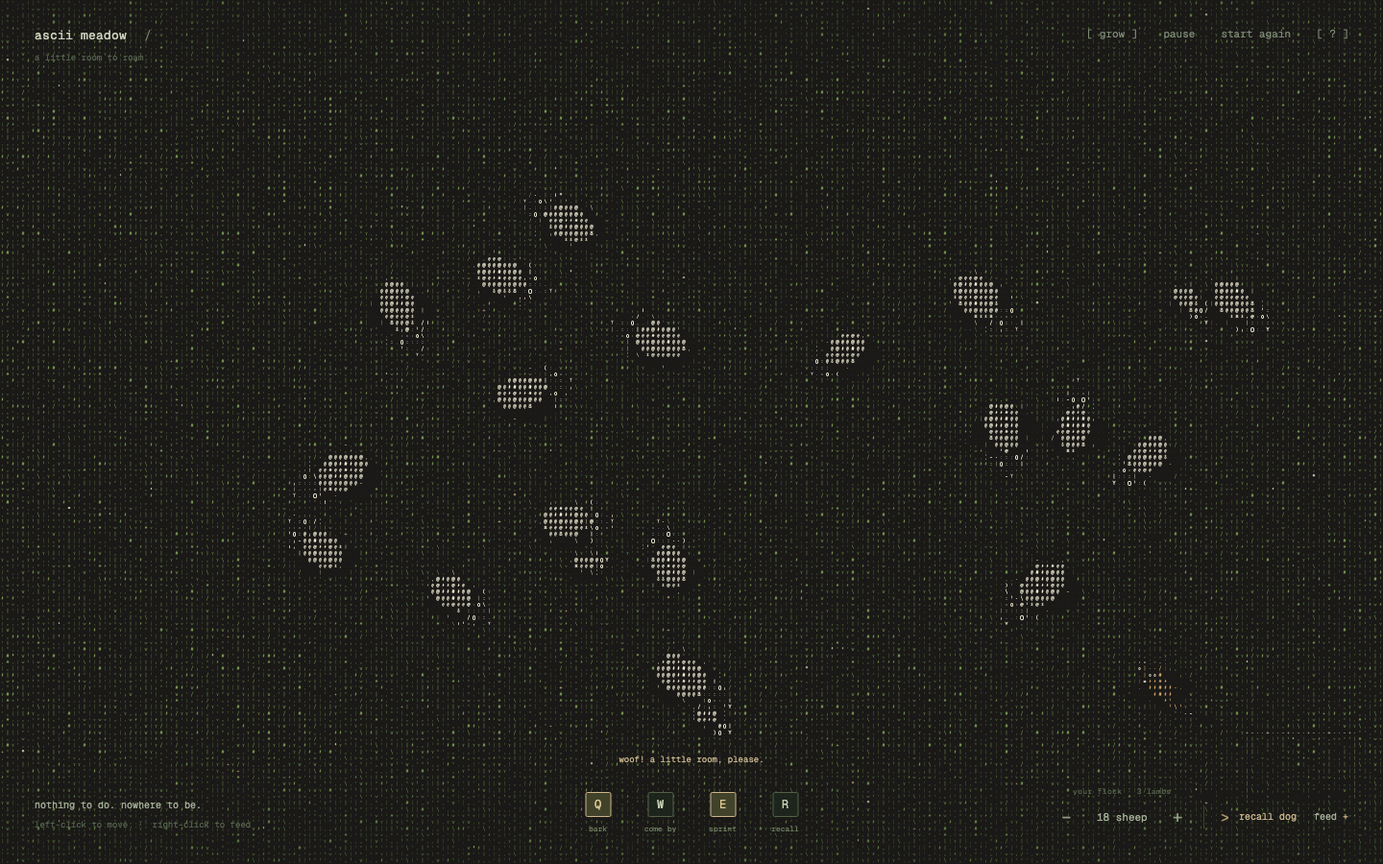
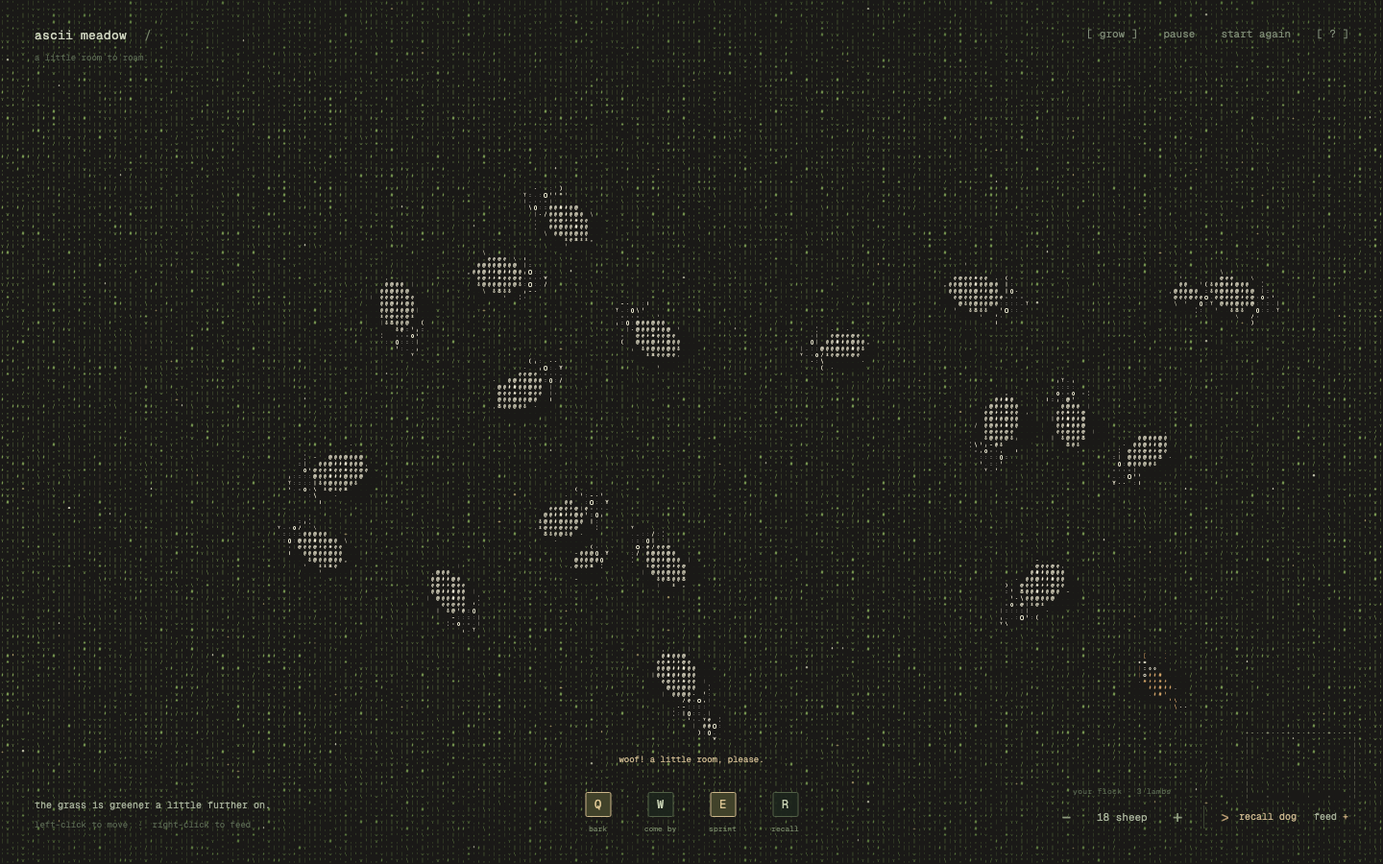
Synchronize bark reactions with an immediate fast wavefront

diff --git a/tests/meadow.test.ts b/tests/meadow.test.ts
@@ -4,6 +4,7 @@ import { grassAppearance } from '../src/engine/grass';
 import { nearestOnRoute, perimeter } from '../src/simulation/route';
 import { Pasture } from '../src/simulation/Pasture';
 import { BirdLife } from '../src/simulation/Birds';
+import { createBark } from '../src/simulation/bark';
 
 function advance(world: World, seconds: number) { for (let i = 0; i < seconds * 60; i++) world.step(1 / 60); }
 describe('lambs and visiting birds', () => {
@@ -25,7 +26,7 @@ describe('lambs and visiting birds', () => {
     Object.assign(parent, { x: 900, y: 450, timer: 100 }); Object.assign(lamb, { x: 600, y: 450, timer: 100 });
     advance(w, 10); expect(Math.hypot(lamb.x - parent.x, lamb.y - parent.y)).toBeLessThan(230);
     w.toggleDog(); Object.assign(w.dog!, { x: lamb.x - 35, y: lamb.y, targetX: lamb.x - 35, targetY: lamb.y, arrived: true });
-    w.step(1 / 60); expect(lamb.state).toBe('startled'); w.cast('q'); expect(lamb.barkLeft).toBeGreaterThan(2);
+    w.step(1 / 60); expect(lamb.state).toBe('startled'); w.cast('q'); expect(lamb.barkLeft).toBe(0); w.step(1 / 60); expect(lamb.barkLeft).toBeGreaterThan(2);
   });
   it('pauses and resizes both generations without losing their family links', () => {
     const w = new World(1200, 900, 18), lamb = w.lambs[0], before = { x: lamb.x, y: lamb.y, parent: lamb.parentId };
@@ -51,7 +52,8 @@ describe('lambs and visiting birds', () => {
     const bird = visitors.birds[0]; Object.assign(bird, { state: 'landed', age: 0 });
     visitors.step(1 / 30, 1200, 900, p, [], { x: bird.x + 80, y: bird.y }, []);
     expect(bird.state).toBe('departing'); Object.assign(bird, { state: 'landed', age: 0 });
-    visitors.step(1 / 30, 1200, 900, p, [], null, [{ x: bird.x + 200, y: bird.y, age: 0 }]);
+    Object.assign(bird, { x: 320, y: 400 }); const wave = createBark(120, 400, 1200, 900, 1); wave.age = 0.09;
+    visitors.step(1 / 30, 1200, 900, p, [], null, [wave]);
     expect(bird.state).toBe('departing'); visitors.reset(); expect(visitors.birds).toHaveLength(0);
   });
 });
@@ -181,13 +183,30 @@ describe('a controllable sheepdog', () => {
     advance(w, 7.2); expect(w.dog!.sleeping).toBe(true);
     w.sendDog(600, 300); expect(w.dog!.sleeping).toBe(false);
   });
-  it('Q moves nearby sheep only a couple of body lengths and leaves distant sheep alone', () => {
+  it('Q shows its wave before sheep react, reaches near then far sheep, and keeps the escape short', () => {
     const w = new World(1800, 1000, 2); w.toggleDog();
     Object.assign(w.dog!, { x: 500, y: 400, targetX: 500, targetY: 400 });
     Object.assign(w.sheep[0], { x: 650, y: 400, timer: 100 }); Object.assign(w.sheep[1], { x: 1300, y: 400, timer: 100 });
-    w.cast('q'); expect(w.sheep[0].barkLeft).toBeGreaterThan(2); expect(w.sheep[1].barkLeft).toBe(0);
-    advance(w, 2.5); expect(w.sheep[0].x - 650).toBeGreaterThan(65); expect(w.sheep[0].x - 650).toBeLessThan(115);
-    expect(w.sheep[1].state).not.toBe('startled'); expect(w.panicLeft).toBe(0);
+    w.cast('q'); expect(w.barks).toHaveLength(1); expect(w.barks[0].age).toBe(0);
+    expect(w.sheep.every(s => s.barkLeft === 0 && s.state === 'grazing')).toBe(true);
+    advance(w, 0.05); expect(w.sheep[0].barkLeft).toBeGreaterThan(2); expect(w.sheep[1].barkLeft).toBe(0);
+    expect(w.sheep[1].state).toBe('grazing'); const goal = w.sheep[0].barkGoalX;
+    advance(w, 0.35); expect(w.sheep[1].barkLeft).toBeGreaterThan(2); expect(w.sheep[1].state).toBe('startled');
+    expect(w.sheep[0].barkGoalX).toBe(goal); // Each wave nudges a sheep just once.
+    advance(w, 2.5);
+    for (const [i, start] of [650, 1300].entries()) {
+      expect(w.sheep[i].x - start).toBeGreaterThan(65); expect(w.sheep[i].x - start).toBeLessThan(115);
+    }
+    expect(w.barks).toHaveLength(0); expect(w.panicLeft).toBe(0);
+  });
+  it('a moving dog leaves its bark wave at the original position and immediate recasts stay independent', () => {
+    const w = new World(1600, 900, 1); w.toggleDog();
+    Object.assign(w.dog!, { x: 300, y: 400, targetX: 300, targetY: 400 });
+    Object.assign(w.sheep[0], { x: 600, y: 400, timer: 100 }); w.cast('q');
+    w.sendDog(200, 200); advance(w, 0.18);
+    expect(w.barks[0].x).toBe(300); expect(w.barks[0].y).toBe(400);
+    expect(w.barks[0].hitIds.has(w.sheep[0].id)).toBe(true);
+    w.cast('q'); expect(w.barks).toHaveLength(2); expect(w.barks[1].hitIds.size).toBe(0);
   });
   it('normal walking and food-following remain much slower than a bark escape', () => {
     const w = new World(1200, 900, 1), s = w.sheep[0];

diff --git a/e2e/meadow.spec.ts b/e2e/meadow.spec.ts
@@ -290,19 +290,34 @@ test('regrowth gains characters and color gradually, and running dogs have visib
   await page.screenshot({ path: `docs/${info.project.name}-regrowth.png` });
 });
 
-test('bark uses one small fading ripple near the dog', async ({ page }) => {
+test('Q has a visible first frame and a subtle wave that crosses the field quickly', async ({ page }, info) => {
   const ripple = await page.evaluate(() => {
-    const app = (window as any).__meadow, w = app.world, p = w.pasture; w.reset(0); w.paused = true;
-    const x = w.width * 0.5, y = w.height * 0.4; p.flower.fill(-1); app.renderer.render();
+    const app = (window as any).__meadow, w = app.world, p = w.pasture; w.reset(0); w.toggleDog();
+    const x = w.width * 0.5, y = w.height * 0.4;
+    Object.assign(w.dog, { x, y, targetX: x, targetY: y, arrived: true }); p.flower.fill(-1); app.renderer.render();
     const before = Array.from({ length: p.cols * p.rows }, (_, i) => JSON.stringify(app.renderer.cellAt((i % p.cols + 0.5) * p.cellW, (Math.floor(i / p.cols) + 0.5) * p.cellH)));
-    w.barks.push({ x, y, age: 0.5 }); app.renderer.render(); let changed = 0, farthest = 0;
-    for (let i = 0; i < before.length; i++) {
-      const px = (i % p.cols + 0.5) * p.cellW, py = (Math.floor(i / p.cols) + 0.5) * p.cellH;
-      if (before[i] !== JSON.stringify(app.renderer.cellAt(px, py))) { changed++; farthest = Math.max(farthest, Math.hypot(px - x, py - y)); }
-    }
-    w.barks[0].age = 1.3; app.renderer.render(); let remaining = 0;
-    for (let i = 0; i < before.length; i++) if (before[i] !== JSON.stringify(app.renderer.cellAt((i % p.cols + 0.5) * p.cellW, (Math.floor(i / p.cols) + 0.5) * p.cellH))) remaining++;
-    return { changed, farthest: farthest / w.scale, remaining };
+    const measure = () => {
+      let changed = 0, nearest = Infinity, farthest = 0, brightest = 0;
+      for (let i = 0; i < before.length; i++) {
+        const px = (i % p.cols + 0.5) * p.cellW, py = (Math.floor(i / p.cols) + 0.5) * p.cellH, cell = app.renderer.cellAt(px, py);
+        if (before[i] !== JSON.stringify(cell)) { changed++; const distance = Math.hypot(px - x, py - y); nearest = Math.min(nearest, distance); farthest = Math.max(farthest, distance); brightest = Math.max(brightest, cell.level); }
+      }
+      return { changed, nearest, farthest, brightest };
+    };
+    app.controller.cast('q'); // Includes the synchronous first-frame render used by the Q key.
+    const immediate = measure(); w.barks[0].age = 0.2; app.renderer.render(); const traveling = measure();
+    w.barks[0].age = 0.7; app.renderer.render(); const finished = measure();
+    const result = { immediate, traveling, finished, scale: w.scale, cells: before.length, width: w.width, height: w.height };
+    w.reset(18); w.toggleDog(); Object.assign(w.dog, { x, y, targetX: x, targetY: y, arrived: true });
+    app.controller.cast('q'); for (let i = 0; i < 7; i++) w.step(1 / 60);
+    app.controller.sync(); app.renderer.render(); w.paused = true;
+    return result;
   });
-  expect(ripple.changed).toBeGreaterThan(4); expect(ripple.changed).toBeLessThan(180); expect(ripple.farthest).toBeLessThan(90); expect(ripple.remaining).toBe(0);
+  expect(ripple.immediate.changed).toBeGreaterThan(4); expect(ripple.immediate.nearest).toBeGreaterThan(35 * ripple.scale);
+  expect(ripple.immediate.farthest).toBeLessThan(53 * ripple.scale);
+  expect(ripple.traveling.farthest).toBeGreaterThan(Math.min(ripple.width, ripple.height) * 0.35);
+  expect(ripple.traveling.farthest - ripple.traveling.nearest).toBeLessThan(10);
+  expect(ripple.traveling.changed).toBeLessThan(ripple.cells * 0.03); expect(ripple.traveling.brightest).toBeLessThanOrEqual(10);
+  expect(ripple.finished.changed).toBe(0);
+  await page.screenshot({ path: `docs/${info.project.name}-bark.png` });
 });

diff --git a/src/simulation/World.ts b/src/simulation/World.ts
@@ -1,6 +1,7 @@
 import { clamp, hash3, TAU } from '../vendor/pond-math';
 import { Pasture } from './Pasture';
 import { BirdLife } from './Birds';
+import { BARK_LIFETIME, barkTouches, createBark, type Bark } from './bark';
 import { planDogPath, safeMovementFraction, segmentClear, type Obstacle } from './navigation';
 import { aheadOnRoute, nearestOnRoute, perimeter, roundedEnvelope, type Point } from './route';
 
@@ -24,7 +25,6 @@ export interface Dog {
   idleTime: number; sleeping: boolean; navPath: Point[]; navAt: number; navGoalX: number; navGoalY: number; navMode: 'clear' | 'squeeze' | 'cross'; navStuck: number; navClearSince: number;
 }
 export interface Feed { id: number; x: number; y: number; amount: number; age: number; seed: number }
-export interface Bark { x: number; y: number; age: number }
 export interface Rect { left: number; right: number; top: number; bottom: number }
 function seeded(seed: number) {
   let s = seed >>> 0;
@@ -146,14 +146,8 @@ export class World {
     const d = this.dog!; d.idleTime = 0; d.sleeping = false;
     if (key === 'q') {
       if (this.barks.length >= 10) this.barks.shift();
-      this.barks.push({ x: d.x, y: d.y, age: 0 }); this.panicX = d.x; this.panicY = d.y; this.panicLeft = 2.4;
-      for (const s of this.animals) {
-        const dx = s.x - d.x, dy = s.y - d.y, distance = Math.hypot(dx, dy);
-        if (distance > 300 * this.scale) continue;
-        const angle = distance < 0.1 ? s.phase : Math.atan2(dy, dx);
-        const goal = this.clampPoint(s.x + Math.cos(angle) * 104 * this.scale, s.y + Math.sin(angle) * 104 * this.scale);
-        s.barkLeft = 2.4; s.barkGoalX = goal.x; s.barkGoalY = goal.y;
-      }
+      this.barks.push(createBark(d.x, d.y, this.width, this.height, this.scale));
+      this.panicX = d.x; this.panicY = d.y; this.panicLeft = ABILITIES.q.duration;
     }
     if (key === 'e') { if (d.arrived && aim) this.sendDog(aim.x, aim.y); d.sprint = ABILITIES.e.duration; }
     if (key === 'w') {
@@ -309,13 +303,21 @@ export class World {
     dt = Math.min(dt, 1 / 30); this.time += dt; this.pasture.step(dt);
     this.panicLeft = Math.max(0, this.panicLeft - dt);
     for (const bark of this.barks) bark.age += dt;
-    this.barks = this.barks.filter(b => b.age < ABILITIES.q.duration);
+    this.barks = this.barks.filter(b => b.age < BARK_LIFETIME);
     if (this.marker) { this.marker.age += dt; if (this.marker.age > 1.5) this.marker = null; }
     this.stepDog(dt);
     const dog = this.dog, scale = this.scale, herd = this.herdCenter(), animals = this.animals;
     const driving = !!dog?.orbit && !dog.orbitEntering;
     for (const s of animals) {
       this.updateCompanions(s, dt); s.barkLeft = Math.max(0, s.barkLeft - dt);
+      for (const bark of this.barks) {
+        if (bark.hitIds.has(s.id) || !barkTouches(bark, s.x, s.y, 24 * scale * s.size, dt)) continue;
+        bark.hitIds.add(s.id);
+        const dx = s.x - bark.x, dy = s.y - bark.y;
+        const angle = Math.hypot(dx, dy) < 0.1 ? s.phase : Math.atan2(dy, dx);
+        const goal = this.clampPoint(s.x + Math.cos(angle) * 104 * scale, s.y + Math.sin(angle) * 104 * scale);
+        s.barkLeft = ABILITIES.q.duration; s.barkGoalX = goal.x; s.barkGoalY = goal.y;
+      }
       s.timer -= dt; s.hunger = Math.min(1, s.hunger + dt * 0.004);
       let desiredX = 0, desiredY = 0, speed = s.speed * scale;
       const dogDist = dog && !dog.atHome ? Math.hypot(s.x - dog.x, s.y - dog.y) : Infinity;

diff --git a/index.html b/index.html
@@ -17,7 +17,7 @@
   </header>
   <aside id="help" class="help chrome" hidden aria-label="How to play">
     <p>an unhurried little pasture.</p>
-    <dl><dt>left-click</dt><dd>send the dog to that spot</dd><dt>right-click</dt><dd>scatter a handful of feed</dd><dt>Q · bark</dt><dd>give nearby sheep a little nudge</dd><dt>W · come by</dt><dd>go around every last sheep</dd><dt>E · sprint</dt><dd>race toward your move target</dd><dt>R · recall</dt><dd>return to pen; R again races to cursor</dd><dt>F, then click</dt><dd>scatter a handful of feed</dd><dt>space</dt><dd>toggle regrow brush; hover to paint</dd><dt>P / H</dt><dd>pause / hide the interface</dd></dl>
+    <dl><dt>left-click</dt><dd>send the dog to that spot</dd><dt>right-click</dt><dd>scatter a handful of feed</dd><dt>Q · bark</dt><dd>sheep move as the ripple reaches them</dd><dt>W · come by</dt><dd>go around every last sheep</dd><dt>E · sprint</dt><dd>race toward your move target</dd><dt>R · recall</dt><dd>return to pen; R again races to cursor</dd><dt>F, then click</dt><dd>scatter a handful of feed</dd><dt>space</dt><dd>toggle regrow brush; hover to paint</dd><dt>P / H</dt><dd>pause / hide the interface</dd></dl>
     <span>no cooldowns. the grass grows back. take your time.</span>
   </aside>
   <footer class="bottom chrome">
@@ -30,7 +30,7 @@
     </div>
   </footer>
   <nav class="abilities chrome" aria-label="Sheepdog abilities">
-    <button data-ability="q" aria-label="Q Bark" title="Q · Bark: nearby sheep move a couple of body lengths. No cooldown."><kbd>Q</kbd><span class="ability-name">bark</span><span class="cooldown" aria-hidden="true"></span></button>
+    <button data-ability="q" aria-label="Q Bark" title="Q · Bark: a quick ripple nudges sheep on contact. No cooldown."><kbd>Q</kbd><span class="ability-name">bark</span><span class="cooldown" aria-hidden="true"></span></button>
     <button data-ability="w" aria-label="W Come By" title="W · Come By: follow a rounded outline around every sheep. No cooldown."><kbd>W</kbd><span class="ability-name">come by</span><span class="cooldown" aria-hidden="true"></span></button>
     <button data-ability="e" aria-label="E Sprint" title="E · Sprint: dash toward the move target. No cooldown."><kbd>E</kbd><span class="ability-name">sprint</span><span class="cooldown" aria-hidden="true"></span></button>
     <button data-ability="r" aria-label="R Recall / Release" title="R · Recall to the pen. Press R again to sprint to the cursor. No cooldown."><kbd>R</kbd><span class="ability-name">recall</span><span class="cooldown" aria-hidden="true"></span></button>

diff --git a/src/engine/Renderer.ts b/src/engine/Renderer.ts
@@ -1,6 +1,7 @@
 import { clamp, hash3, lineGlyph } from '../vendor/pond-math';
 import { DENSITY_GLYPHS, grassAppearance } from './grass';
 import type { Bird } from '../simulation/Birds';
+import { BARK_TRAVEL_TIME, BARK_FADE_TIME, BARK_LIFETIME, barkRadius, type Bark } from '../simulation/bark';
 import type { Sheep, World } from '../simulation/World';
 
 /** Pond's density ramp, local ink and cached font, adapted into a living pasture.
@@ -207,15 +208,17 @@ export class Renderer {
       }
     }
   }
-  private barkRipple(x: number, y: number, age: number) {
-    if (age >= 1.2) return;
-    const p = this.world.pasture, t = age / 1.2, radius = (14 + t * 72) * this.world.scale, band = p.cellW * 0.65;
+  private barkRipple(bark: Bark) {
+    const { x, y, age } = bark;
+    if (age >= BARK_LIFETIME) return;
+    const p = this.world.pasture, t = Math.min(1, age / BARK_TRAVEL_TIME), radius = barkRadius(bark), band = p.cellW * 0.65;
+    const fade = age <= BARK_TRAVEL_TIME ? 1 : Math.max(0, 1 - (age - BARK_TRAVEL_TIME) / BARK_FADE_TIME);
     for (let r = Math.max(0, Math.floor((y - radius - band) / p.cellH)); r <= Math.min(p.rows - 1, Math.ceil((y + radius + band) / p.cellH)); r++) {
       for (let c = Math.max(0, Math.floor((x - radius - band) / p.cellW)); c <= Math.min(p.cols - 1, Math.ceil((x + radius + band) / p.cellW)); c++) {
         const px = (c + 0.5) * p.cellW, py = (r + 0.5) * p.cellH, dx = px - x, dy = py - y;
         const off = Math.abs(Math.hypot(dx, dy) - radius);
-        // A single thin, broken ripple rather than two bright expanding walls.
-        if (off < band && this.texture[r * p.cols + c] > 0.42) this.put(px, py, lineGlyph(-dy, dx), 0.3 * (1 - t) * (1 - off / band), t < 0.65 ? 5 : 1);
+        // Thin, broken and softly colored, but visible from the very first frame.
+        if (off < band && this.texture[r * p.cols + c] > 0.42) this.put(px, py, lineGlyph(-dy, dx), (0.3 - t * 0.09) * fade * (1 - off / band), 5);
       }
     }
   }
@@ -277,7 +280,7 @@ export class Renderer {
       this.ring(m.x, m.y, radius, Math.max(0, 0.9 - m.age * 0.65), 0);
       this.put(m.x, m.y, '+', Math.max(0, 0.8 - m.age * 0.5), 0);
     }
-    for (const bark of w.barks) this.barkRipple(bark.x, bark.y, bark.age);
+    for (const bark of w.barks) this.barkRipple(bark);
     this.pen();
     for (const b of w.birds) if (b.state === 'landed') this.bird(b);
     const animals = w.animals;

diff --git a/src/simulation/Birds.ts b/src/simulation/Birds.ts
@@ -1,5 +1,6 @@
 import { hash3 } from '../vendor/pond-math';
 import type { Pasture } from './Pasture';
+import { barkTouches, type Bark } from './bark';
 
 export interface Bird {
   id: number; x: number; y: number; heading: number; phase: number;
@@ -17,7 +18,7 @@ export class BirdLife {
   resize(sx: number, sy: number) {
     for (const b of this.birds) { b.x *= sx; b.y *= sy; b.landingX *= sx; b.landingY *= sy; b.exitX *= sx; b.exitY *= sy; }
   }
-  step(dt: number, width: number, height: number, pasture: Pasture, animals: Position[], dog: Position | null, barks: (Position & { age: number })[]) {
+  step(dt: number, width: number, height: number, pasture: Pasture, animals: Position[], dog: Position | null, barks: Bark[]) {
     this.untilVisit -= dt;
     if (this.untilVisit <= 0 && this.birds.length < 3) {
       const id = this.nextId++, h = (n: number) => hash3(id, n, 781);
@@ -39,7 +40,7 @@ export class BirdLife {
       b.age += dt;
       if (b.state === 'landed') {
         const scared = dog && Math.hypot(dog.x - b.x, dog.y - b.y) < 145 ||
-          barks.some(q => q.age < 0.15 && Math.hypot(q.x - b.x, q.y - b.y) < 310);
+          barks.some(q => barkTouches(q, b.x, b.y, 10, dt));
         if (b.age > b.restFor || scared) { b.state = 'departing'; b.age = 0; }
         else continue;
       }

diff --git a/src/simulation/bark.ts b/src/simulation/bark.ts
@@ -1,0 +1,25 @@
+export const BARK_TRAVEL_TIME = 0.55;
+export const BARK_FADE_TIME = 0.12;
+export const BARK_LIFETIME = BARK_TRAVEL_TIME + BARK_FADE_TIME;
+
+export interface Bark {
+  x: number; y: number; age: number; startRadius: number; maxRadius: number;
+  hitIds: Set<number>;
+}
+
+export function createBark(x: number, y: number, width: number, height: number, scale: number): Bark {
+  return { x, y, age: 0, startRadius: 46 * scale,
+    maxRadius: Math.hypot(Math.max(x, width - x), Math.max(y, height - y)) + 12 * scale, hitIds: new Set() };
+}
+
+/** Rendering and animal reactions use exactly the same outward-moving front. */
+export function barkRadius(bark: Bark, age = bark.age) {
+  return bark.startRadius + (bark.maxRadius - bark.startRadius) * Math.min(1, Math.max(0, age) / BARK_TRAVEL_TIME);
+}
+
+export function barkTouches(bark: Bark, x: number, y: number, bodyRadius: number, dt: number) {
+  if (bark.age > BARK_TRAVEL_TIME + dt) return false;
+  const distance = Math.hypot(x - bark.x, y - bark.y);
+  return distance - bodyRadius <= barkRadius(bark) &&
+    (bark.age <= dt || distance + bodyRadius >= barkRadius(bark, bark.age - dt));
+}

diff --git a/docs/VALIDATION.md b/docs/VALIDATION.md
@@ -5,7 +5,7 @@ Verified on November 12, 2026.
 | Check | Result |
 | --- | --- |
 | Production build | Strict TypeScript + Vite build passed |
-| Simulation tests | 48 passing |
+| Simulation tests | 49 passing |
 | Browser checks | 35 passing, desktop and mobile Chromium |
 | Touch-only desktop check | Intentionally skipped; tested on the mobile project |
 | Runtime errors | None observed in browser checks |
@@ -14,12 +14,12 @@ Verified on November 12, 2026.
 
 Simulation checks cover local grass consumption, regrowth, tread recovery, grazing movement, greener-patch seeking, food attraction and consumption, food lifetime/cap, commanded movement and arrival, dog repulsion, gentle sleeping-dog avoidance and larger chase radius, an initially full edible map, local brush restoration, persistent cropped state through resizing, ordered recovery with 105–114 second delays and continuous growth, one-third smaller character cells, loose local companions with retained spacing, fresh-patch preference over company, limited nearby bark escape, immediate recasts without cooldowns, sheep speed limits and faster dog movement, a complete rounded outside lap including edge strays and a snug diagonal-flock route, command cancellation, recall and cursor launch, idle sleeping with preserved heading, predictive dog avoidance, wider personal space and stronger overlap correction, empty/maximum sheep counts, pause, resizing an active orbit, and a minute of bounded herding with 36 sheep.
 
-Browser checks cover visible grass and sheep, canvas coverage, left-click movement, Q/E shortcuts, traveling bark rings, immediate recasts, whole-flock W coverage, R recall and cursor launch, right-click food without dog redirection, feeding by F and button, adding/removing sheep, persistence, calling and recalling/releasing the dog, help, pause, reset, hidden UI, resize, reduced motion, touch commands and ability buttons, long-press feeding, and scroll prevention. Head priority was checked with deliberately overlapping sheep. Fresh light green and much darker grazed glyphs were checked separately. Pixel checks verify Pond’s exact charcoal background ([26, 25, 23]), bare ground followed by dots, shoots, blades and mature green glyphs, and no brown flecks. Higher-priority O eyes remain visible over overlapping wool. Space brush checks verify continuous hover strokes, isolated changes, toggle-off behavior and painting while paused. P pauses independently. Idle dogs were advanced to sleep, and their actual z/Z glyph cells were verified. Temporary status copy was checked for overlap with the ability bar. A 90-second simulation verifies visible crop marks without collapse into a single flock. Compact dog feet and tail glyphs are checked outside the body silhouette. The bark ripple is confined to 86 px and vanishes by 1.2 seconds. Navigation checks cover a joined cluster, an occupied destination, sprint-speed collision sweeps, and a dog detouring around a fixed sheep with closer clearance. New cases verify that a sprint stays on one side of a moving sheep, passes through a narrow two-sheep gap, and reaches an occupied target through last-resort overlap. Come By exceeds 180 px/s and measurably reduces flock spread compared with ordinary grazing. Incremental rendering was compared byte-for-byte to a clean full repaint after moving sheep, a dog and bark rings, with no differences. Turn regression checks cover quarter-turns after positive and negative accumulated laps, the actual dog turn across the wrap boundary, and normalization of its heading. Grazing checks verify a full mouth-sized bare patch remains visible after a minute.
+Browser checks cover visible grass and sheep, canvas coverage, left-click movement, Q/E shortcuts, traveling bark rings, immediate recasts, whole-flock W coverage, R recall and cursor launch, right-click food without dog redirection, feeding by F and button, adding/removing sheep, persistence, calling and recalling/releasing the dog, help, pause, reset, hidden UI, resize, reduced motion, touch commands and ability buttons, long-press feeding, and scroll prevention. Head priority was checked with deliberately overlapping sheep. Fresh light green and much darker grazed glyphs were checked separately. Pixel checks verify Pond’s exact charcoal background ([26, 25, 23]), bare ground followed by dots, shoots, blades and mature green glyphs, and no brown flecks. Higher-priority O eyes remain visible over overlapping wool. Space brush checks verify continuous hover strokes, isolated changes, toggle-off behavior and painting while paused. P pauses independently. Idle dogs were advanced to sleep, and their actual z/Z glyph cells were verified. Temporary status copy was checked for overlap with the ability bar. A 90-second simulation verifies visible crop marks without collapse into a single flock. Compact dog feet and tail glyphs are checked outside the body silhouette. The bark ripple is visible at age zero outside the dog’s silhouette, remains a single thin, broken, muted ring, crosses the field in 0.55 seconds and disappears by 0.67 seconds. Browser checks verify its immediate ink, narrow moving band and complete disappearance on desktop and mobile. Simulation checks verify that sheep stay calm before contact, nearby sheep react before farther sheep, the wave keeps its original position when the dog moves, each sheep is nudged once per wave, recasts are independent, and escape distance remains about two body lengths. Birds use the same contact timing. Navigation checks cover a joined cluster, an occupied destination, sprint-speed collision sweeps, and a dog detouring around a fixed sheep with closer clearance. New cases verify that a sprint stays on one side of a moving sheep, passes through a narrow two-sheep gap, and reaches an occupied target through last-resort overlap. Come By exceeds 180 px/s and measurably reduces flock spread compared with ordinary grazing. Incremental rendering was compared byte-for-byte to a clean full repaint after moving sheep, a dog and bark rings, with no differences. Turn regression checks cover quarter-turns after positive and negative accumulated laps, the actual dog turn across the wrap boundary, and normalization of its heading. Grazing checks verify a full mouth-sized bare patch remains visible after a minute.
 
 New family and visitor checks cover the one-lamb-per-six-adults ratio through add, remove, reset and the 80-adult maximum; half-size lamb silhouettes and valid parent links; catching up with a separated parent; lamb response to the dog and bark; pause and resize. Bird checks cover arrival, landing, resting, departure, population limits, and early takeoff for a dog or bark. Desktop and mobile rendering checks verify two uppercase O eyes, two ear tips and visible light face cells on entirely cropped ground at all four cardinal headings. The family caption is checked after population changes. Bird glyph colors and an actual landed visitor are verified before family screenshots are captured. Grazing and growth checks now use the slower consumption and recovery rates.
 
 The screenshots in this directory are actual captures of the application, inspected during development. The in-app browser was also used directly to call the dog, issue left-click commands and bark.
 
-Raw frame samples are saved in `performance-desktop.json` and `performance-mobile.json`. The default desktop has 36,450 grass cells and 18 adults plus 3 lambs, with occasional birds. Production JavaScript is approximately 48.0 kB (17.2 kB gzip), with 6.7 kB CSS and a 9.9 kB local font. There are no runtime package dependencies.
+Raw frame samples are saved in `performance-desktop.json` and `performance-mobile.json`. The default desktop has 36,450 grass cells and 18 adults plus 3 lambs, with occasional birds. Production JavaScript is approximately 48.5 kB (17.4 kB gzip), with 6.7 kB CSS and a 9.9 kB local font. There are no runtime package dependencies.
 
 These are samples from this computer, not a hardware-independent FPS guarantee. Mobile checks use Chromium emulation; native Safari and physical touch devices remain unverified. The meadow is a local project and has not been deployed.

diff --git a/README.md b/README.md
@@ -30,7 +30,7 @@ All four actions can be used again immediately: **there are no cooldowns**.
 
 | Key | Ability | What happens |
 | --- | --- | --- |
-| **Q** | **Bark** | Nearby sheep within 300 px move about two body lengths (roughly 100 px) away over 2.4 seconds. Distant sheep keep grazing. A single thin, broken ripple stays within 86 px and fades in 1.2 seconds; recasting gives another short nudge. |
+| **Q** | **Bark** | A thin, broken ripple appears immediately outside the dog and crosses the entire field in 0.55 seconds, fading by 0.67 seconds. Sheep and lambs start their short, roughly 100 px escape only as the visible wave touches their bodies; each wave nudges an animal once. Recasting creates a new wave. |
 | **W** | **Come By** | The dog joins a rounded, padded convex outline of **every** sheep, including edge strays, then makes a full lap. Curved ends and a short look-ahead avoid empty rectangular corners. The faster pass applies inward herding pressure only while W is active. The outline updates as the sheep move. |
 | **E** | **Sprint** | A short sprint toward its current destination. When idle, the dog sprints toward the cursor. |
 | **R** | **Recall / Release** | First press: return to the small fenced pen in the bottom-right corner. Next press: sprint all the way to the cursor, with no click required. The second press also works while the dog is on its way home. |
@@ -87,6 +87,7 @@ src/
   simulation/Pasture.ts   retained grass, consumption, regrowth and trampled paths
   simulation/World.ts    adults, lamb families, food, movement and ability clocks
   simulation/Birds.ts    occasional bird visits, landing and takeoff
+  simulation/bark.ts     shared wavefront timing for rendering and animal contact
   simulation/navigation.ts  obstacle-aware paths and continuous collision checks
   simulation/route.ts    rounded flock envelopes and perimeter navigation
   engine/grass.ts        gradual grass glyph and color stages
